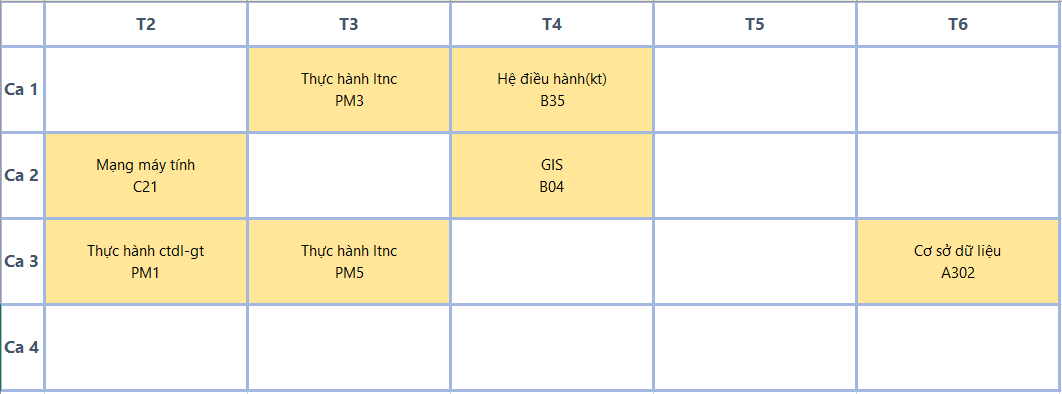
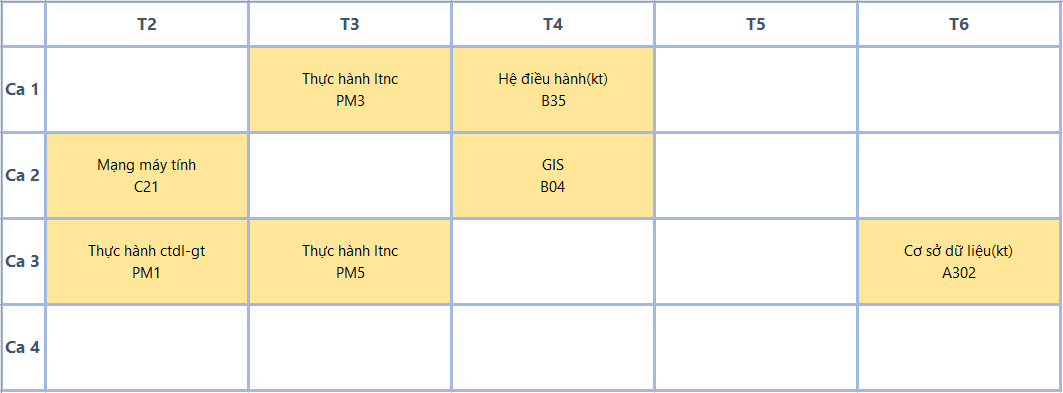
update tkb + lichThi 10.07.20

diff --git a/TKB.html b/TKB.html
@@ -47,6 +47,8 @@
 	
 	<div align="center" style="padding-top: 120px; pointer-events: none;">
 		<img src="./images/tkb.png" alt="Thoi Khoa Bieu">
+		<p style="padding-top: 48px;"></p>
+		<img src="./images/lichThi.png" alt="Lich Thi">
 	</div> <!--het img-->
 
 
